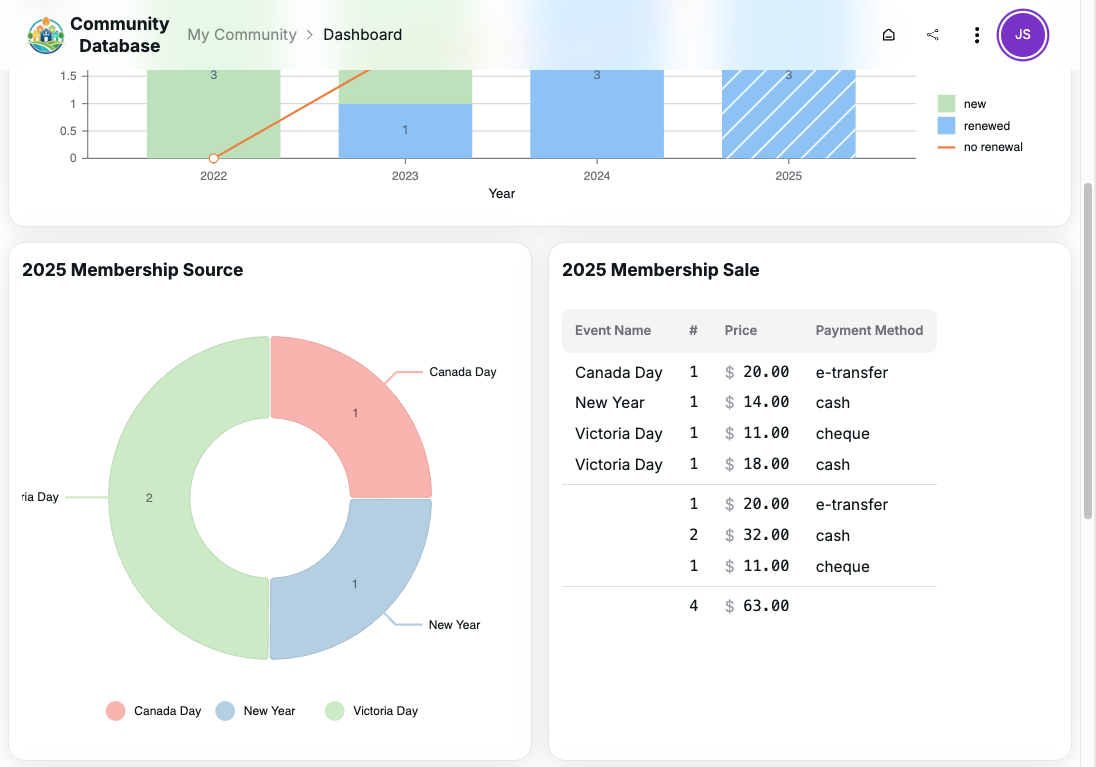
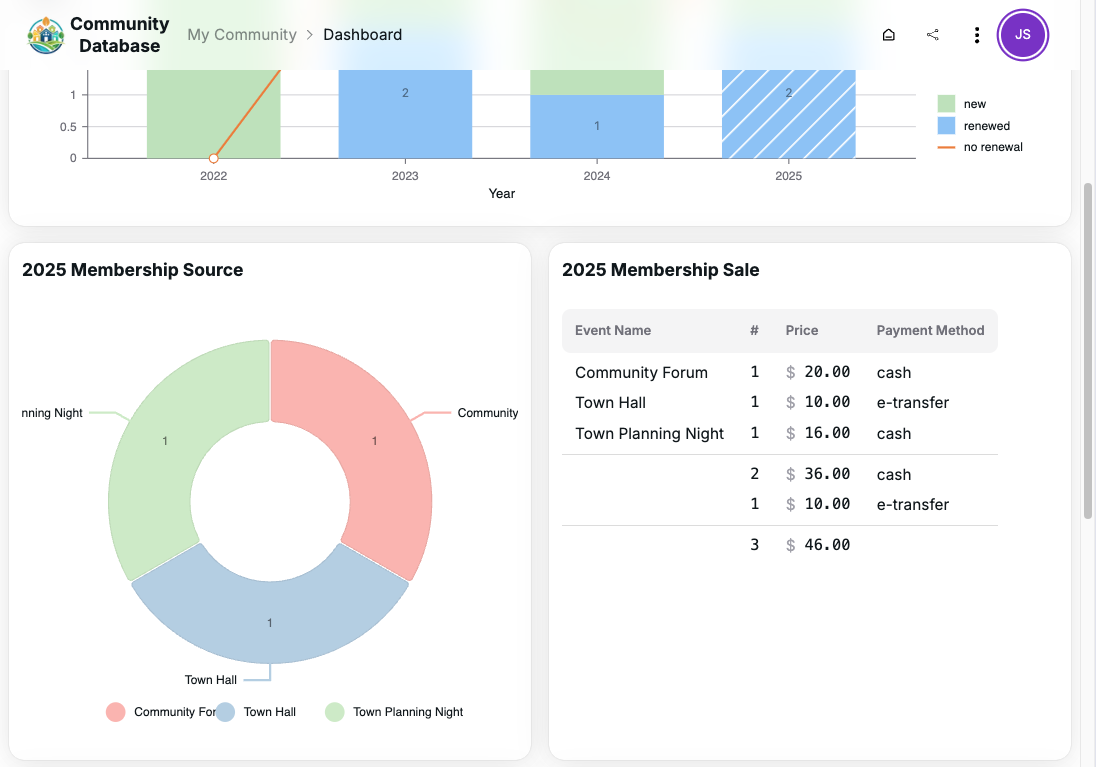
fix: update screenshots

diff --git a/src/app/community/[communityId]/common/ticket-input-table/transaction-total-payment-select.tsx b/src/app/community/[communityId]/common/ticket-input-table/transaction-total-payment-select.tsx
@@ -1,27 +1,22 @@
-import clsx from 'clsx';
-import React from 'react';
-import { useAppContext } from '~/custom-hooks/app-context';
 import {
   Select,
   SelectItem,
   SelectSection,
   type SelectProps,
-} from '~/view/base/select';
+} from '@heroui/react';
+import clsx from 'clsx';
+import React from 'react';
+import { useAppContext } from '~/custom-hooks/app-context';
 
-type CustomSelectProps = Omit<
-  SelectProps,
-  'controlName' | 'items' | 'children'
->;
+type CustomSelectProps = Omit<SelectProps, 'items' | 'children'>;
 
 interface Props extends CustomSelectProps {
   className?: string;
-  controlNamePrefix: string;
   includeHiddenFields?: boolean;
 }
 
-export const PaymentSelect: React.FC<Props> = ({
+export const TransactionTotalPaymentSelect: React.FC<Props> = ({
   className,
-  controlNamePrefix,
   includeHiddenFields,
   ...props
 }) => {
@@ -36,10 +31,7 @@ export const PaymentSelect: React.FC<Props> = ({
     <div className={clsx(className)}>
       <Select
         className="min-w-32 max-w-xs"
-        controlName={`${controlNamePrefix}.paymentMethod`}
-        // This is being controlled by the transaction total payment select
-        isControlled
-        aria-label="Payment Method"
+        aria-label="Transaction Total Payment Method"
         items={items}
         variant="underlined"
         selectionMode="single"

diff --git a/src/app/lib/lcra-community/random-seed.ts b/src/app/lib/lcra-community/random-seed.ts
@@ -60,12 +60,12 @@ export function seedCommunityData(numEntries: number) {
 function genEvent(count: number) {
   return faker.helpers.uniqueArray(() => {
     const eventName = faker.helpers.arrayElement([
-      'New Year',
-      'Easter',
-      'Victoria Day',
-      'Canada Day',
-      'Labour Day',
-      'Xmas',
+      'Membership Form',
+      'Town Hall',
+      'Clean-Up',
+      'Meet & Greet',
+      'Community Forum',
+      'Town Planning Night',
     ]);
     return removeDelimiter(eventName);
   }, count);
@@ -81,7 +81,11 @@ function genTicket(eventCount: number) {
   return Array.from({ length: eventCount }, () => {
     const ticketCount = faker.number.int({ min: 0, max: 3 });
     const ticketList: Ticket[] = Array.from({ length: ticketCount }, () => {
-      const ticketName = faker.helpers.arrayElement(['Meal', 'Drink', 'Pizza']);
+      const ticketName = faker.helpers.arrayElement([
+        'Meal',
+        'Coffee',
+        'Snack',
+      ]);
       const count = faker.number.int({ min: 0, max: 20 });
       const price = faker.finance.amount({ min: 0, max: 10, dec: 0 });
       const paymentMethod = genPaymentMethod();

diff --git a/src/app/community/[communityId]/common/ticket-input-table/ticket-row.tsx b/src/app/community/[communityId]/common/ticket-input-table/ticket-row.tsx
@@ -11,6 +11,7 @@ import { TicketAddButton } from './ticket-add-button';
 import { useTicketContext } from './ticket-context';
 import { TicketInput } from './ticket-input';
 import { TicketTypeSelect } from './ticket-type-select';
+import { TransactionTotalPaymentSelect } from './transaction-total-payment-select';
 
 interface EmptyProps {}
 
@@ -136,14 +137,13 @@ export const TransactionTotal: React.FC<EmptyProps> = () => {
         <span>{formatCurrency(totalPrice)}</span>
       </div>
       <div role="cell">
-        <PaymentSelect
-          controlNamePrefix=""
+        <TransactionTotalPaymentSelect
           placeholder="Select Payment"
           onSelectionChange={(keys) => {
             const [firstKey] = keys;
             const selectedPaymentMethod = (firstKey as string) ?? '';
             setPaymentMethod(selectedPaymentMethod);
-            if (!membershipPaymentMethod) {
+            if (membershipConfig && !membershipPaymentMethod) {
               setValue(
                 `${membershipConfig?.controlNamePrefix}.paymentMethod`,
                 selectedPaymentMethod,
